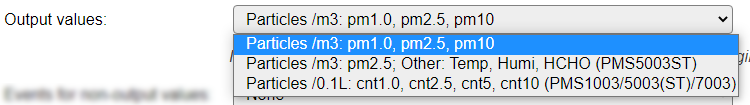
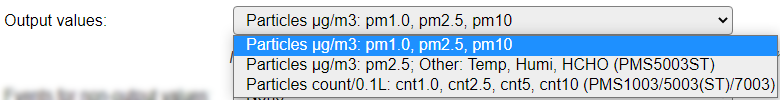
[P053] Correct typos in the measurement units

diff --git a/docs/source/Plugin/P053.rst b/docs/source/Plugin/P053.rst
@@ -139,17 +139,17 @@ Available options:
 
 .. image:: P053_OutputValuesOptions.png
 
-*Particles /m3: pm1.0, pm2.5, pm10* The default output values, available for all supported sensors.
+*Particles µg/m3: pm1.0, pm2.5, pm10* The default output values, available for all supported sensors.
 
-- PM1.0 - Concentration of particles > 1 µm/m3
-- PM2.5 - Concentration of particles > 2.5 µm/m3
-- PM10 - Concentration of particles > 10 µm/m3
+- PM1.0 - Concentration of particles > 1 micron (µg/m3)
+- PM2.5 - Concentration of particles > 2.5 micron (µg/m3)
+- PM10 - Concentration of particles > 10 micron (µg/m3)
 
 *(As shown in the overview screenshot above)*
 
-*Particles /m3: pm2.5; Other: Temp, Humi, HCHO (PMS5003ST)* Particles 2.5 µm/m3 combined with other measurement values only supported by the PMS5003ST sensor.
+*Particles µg/m3: pm2.5; Other: Temp, Humi, HCHO (PMS5003ST)* Particles > 2.5 micron (µg/m3) combined with other measurement values only supported by the PMS5003ST sensor.
 
-- PM2.5 - Concentration of particles > 2.5 µm/m3)
+- PM2.5 - Concentration of particles > 2.5 micron (µg/m3)
 - Temp - Temperature
 - Humi - Humidity
 - HCHO - Formaldehyde concentration measurement (Formula: CH\ :sub:`2`\ O, or H-CHO)
@@ -158,7 +158,7 @@ Available options:
 
 *(Value names adjusted manually)*
 
-*Particles /0.1L: cnt1.0, cnt2.5, cnt5, cnt10 (PMS1003/5003(ST)/7003)* Count of Particles per 0.1 L of air, available on the PMS1003, PMS5003, PMS5003ST and PMS7003 sensor models.
+*Particles count/0.1L: cnt1.0, cnt2.5, cnt5, cnt10 (PMS1003/5003(ST)/7003)* Count of Particles per 0.1 L of air, available on the PMS1003, PMS5003, PMS5003ST and PMS7003 sensor models.
 
 - cnt1.0 - Count of particles > 1 micron per 0.1L of air
 - cnt2.5 - Count of particles > 2.5 micron per 0.1L of air
@@ -171,19 +171,19 @@ Available options:
 
 When changing this option, the page will be reloaded, to display the adjusted number of output values.
 
-**Events for non-output values** When an option other than **None** is selected, the **Output values** that are not directly available, will be sent via events. The names of these events are:
+**Events for non-output values** When an option other than **None** is selected, the **Output values** that are not directly available, will be sent via events.
 
 Available options:
 
 .. image:: P053_EventOptions.png
 
-*Particles /m3 and Temp/Humi/HCHO*:
+*Particles µg/m3 and Temp/Humi/HCHO*:
 
-When *Particles /m3: pm1.0, pm2.5, pm10* is selected: ``<Taskname>#Temp``, ``<Taskname>#Humi`` and ``<Taskname>#HCHO``, with the measured value available in ``%eventvalue1%`` (or it's alias ``%eventvalue%``).
+When *Particles µg/m3: pm1.0, pm2.5, pm10* is selected: ``<Taskname>#Temp``, ``<Taskname>#Humi`` and ``<Taskname>#HCHO``, with the measured value available in ``%eventvalue1%`` (or it's alias ``%eventvalue%``).
 
-When *Particles /m3: pm2.5; Other: Temp, Humi, HCHO (PMS5003ST)* is selected: ``<Taskname>#pm1.0`` and ``<Taskname>#pm10``.
+When *Particles µg/m3: pm2.5; Other: Temp, Humi, HCHO (PMS5003ST)* is selected: ``<Taskname>#pm1.0`` and ``<Taskname>#pm10``.
 
-*Particles /m3, Temp/Humi/HCHO and Particles /0.1L*:
+*Particles µg/m3, Temp/Humi/HCHO and Particles count/0.1L*:
 
 All of the above, and also ``<Taskname>#pm2.5``, ``<Taskname>#cnt1.0``, ``<Taskname>#cnt2.5`` and ``<Taskname>#cnt10`` events are generated if these are not selected as **Output values**.
 
